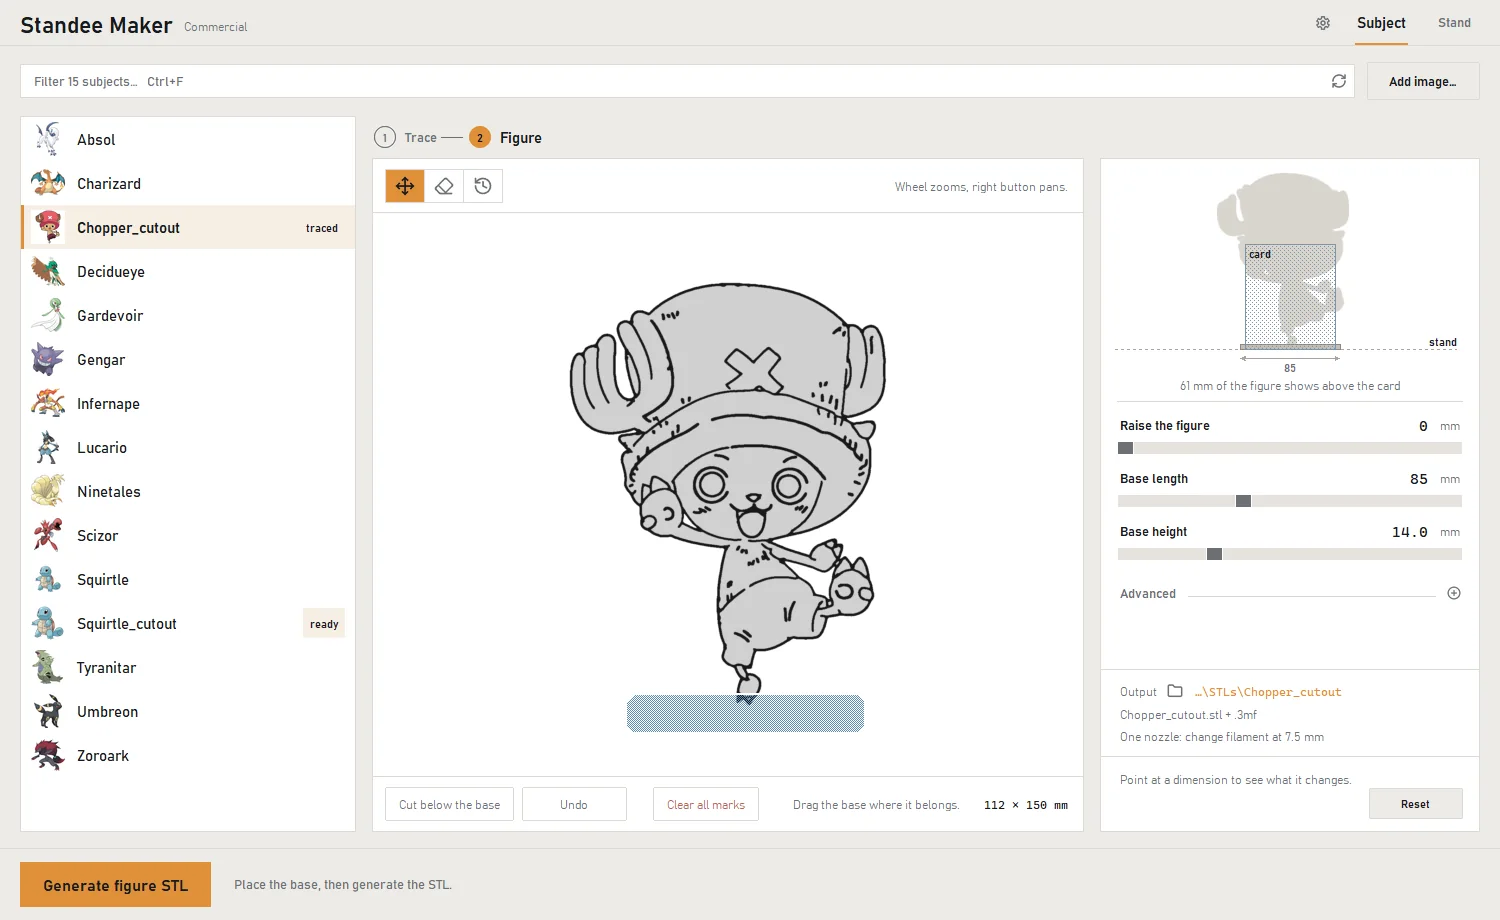
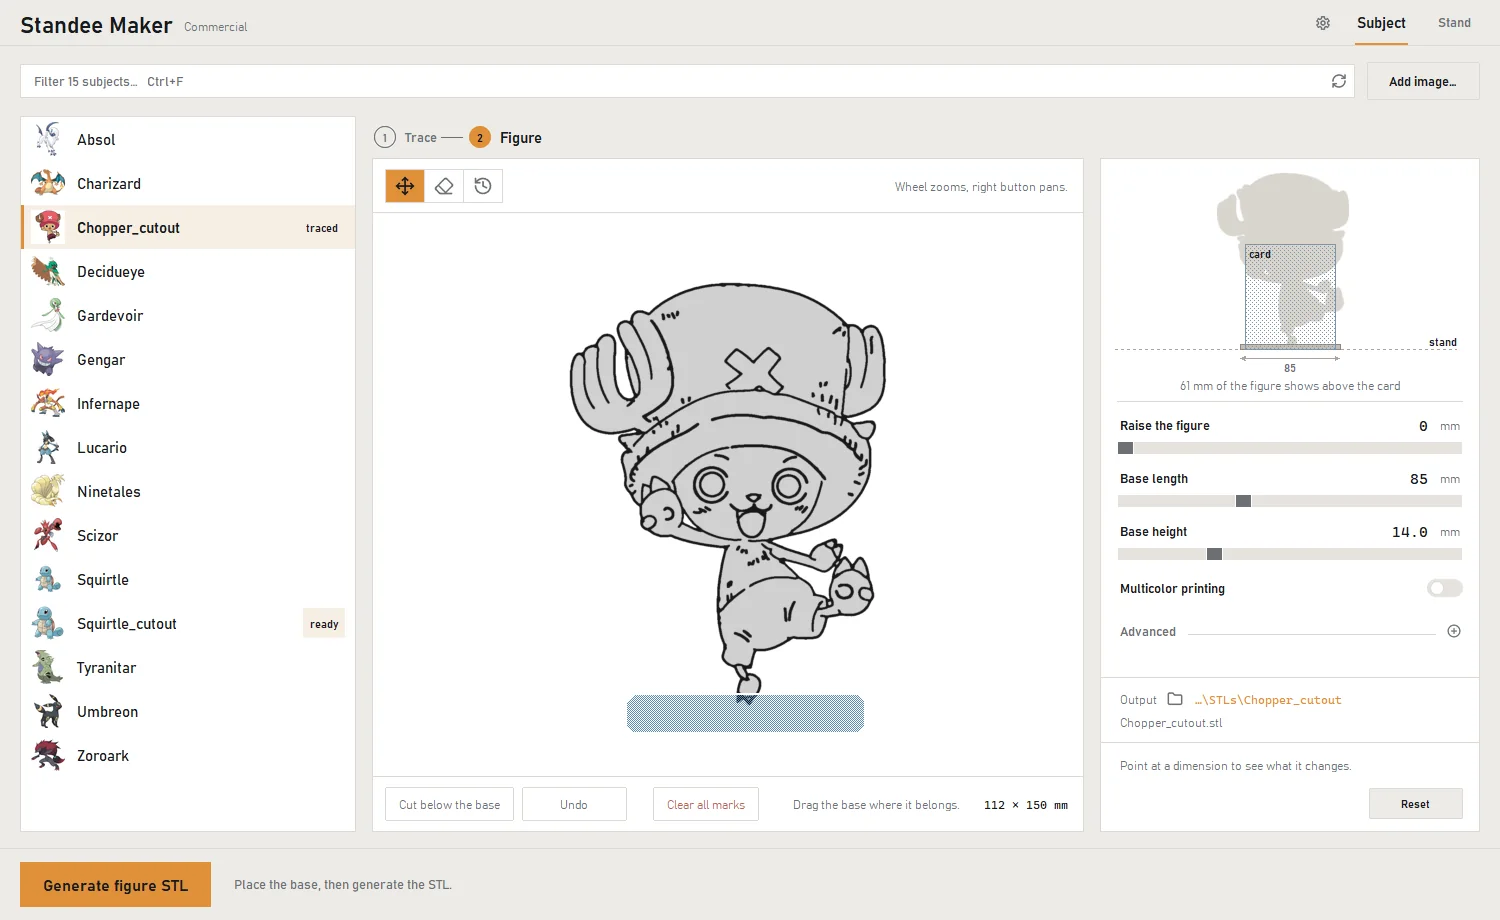
Sito da PNG-Stand-Maker @ b9c1207

Changed region(s): [[0.736, 0.7304, 0.92, 0.8522], [0.736, 0.6391, 0.828, 0.7], [0.9507, 0.6087, 0.9813, 0.6696]]

diff --git a/main.js b/main.js
@@ -416,7 +416,7 @@
           "4 mm overlap: that is what welds figure and base into one solid instead of two pieces " +
           "that only touch."],
         [[590, 660, 250, 52], "The feet no longer stick out."],
-        [[772, 795, 192, 20], "How much was removed. The base itself stays whole."]
+        [[820, 795, 110, 20], "How much was removed. The base itself stays whole."]
       ],
       tip: "For anything that is not a straight cut, a shadow or a stray mark, use <b>Erase</b> " +
            "(E) and <b>Restore</b> (R) on this same view." },
@@ -424,17 +424,17 @@
     { ch: 3, img: "figure-written", size: SHOT,
       title: "Write the figure STL",
       lede: "The figure comes out as a single STL, already assembled: the silhouette, the line art " +
-            "standing 2.5 mm proud of it, and the base welded underneath. Next to it come two " +
-            ".3mf files with the line art as a second part, for printing it in another colour.",
+            "standing 2.5 mm proud of it, and the base welded underneath.",
       notes: [
         [[20, 862, 191, 45], "<b>Generate figure STL</b>, or <b>Ctrl+Enter</b>."],
         [[612, 62, 277, 66], "<b>Squirtle_cutout.stl is ready to print.</b> Click the notice to " +
           "open its folder."],
-        [[1108, 680, 362, 44], "Every subject gets a folder of its own, and the stand made for it " +
+        [[1108, 688, 362, 46], "Every subject gets a folder of its own, and the stand made for it " +
           "lands in the same one. The gear at the top lets you choose where models go."],
-        [[1108, 726, 362, 22], "Two colours: open <b>_Bambu-Orca.3mf</b> in Bambu Studio or " +
-          "OrcaSlicer, or <b>_Prusa.3mf</b> in PrusaSlicer, and give each part its filament. " +
-          "With a single nozzle, add a filament change at the height shown here."],
+        [[1108, 574, 362, 30], "<b>Multicolor printing</b>, off unless you switch it on: two .3mf " +
+          "files come out as well, with the line art as a second part. Open <b>_Bambu-Orca</b> in " +
+          "Bambu Studio or OrcaSlicer, <b>_Prusa</b> in PrusaSlicer. With a single nozzle, Output " +
+          "then shows the height at which to change filament."],
         [[944, 795, 126, 20], "The size of the part: 145 &times; 151 &times; 10 mm."],
         [[300, 569, 48, 22], "In the library the tag moves on from <b>traced</b> to " +
           "<b>ready</b>: the figure is ready to print."]
@@ -507,7 +507,7 @@
   // Come TURN_V: i riquadri di TOUR sono in pixel delle schermate, e una
   // schermata vecchia ancora nella cache sotto i riquadri nuovi li mette nel
   // posto sbagliato. Si alza a ogni `make_tutorial.py`.
-  var TOUR_V = "?v=4";
+  var TOUR_V = "?v=5";
   function src(step) { return step.img ? "assets/tutorial/" + step.img + ".webp" + TOUR_V : null; }
 
   // la barra dei capitoli: un segmento per passo, e il capitolo si preme
